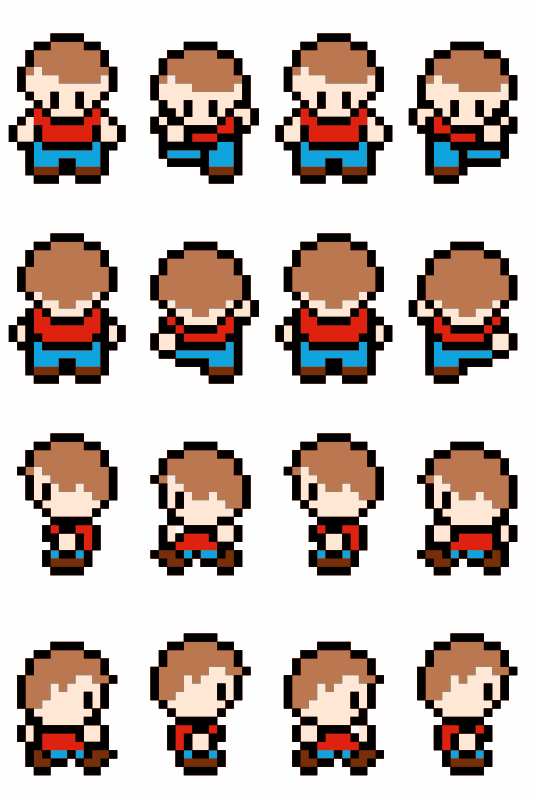
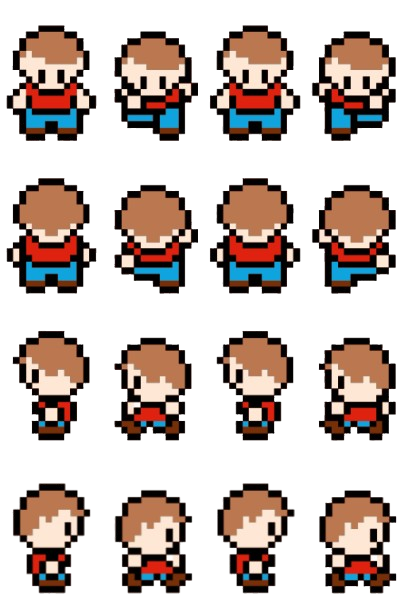
replace player image

diff --git a/games/3011-rpg-integrated/game/player.js b/games/3011-rpg-integrated/game/player.js
@@ -79,32 +79,35 @@ function handleMovement({ player, keys }) {
 }
 
 function handleAction({ keys, currentAction }) {
-  if (keys["z"] || keys["Z"]) {
-    currentAction = ACTIONS.ATTACKING;
-  } else if (keys["ArrowUp"] || keys["ArrowDown"] || keys["ArrowLeft"] || keys["ArrowRight"]) {
+  if (keys["ArrowUp"] || keys["ArrowDown"] || keys["ArrowLeft"] || keys["ArrowRight"]) {
+    console.log("Walking action detected");
     currentAction = ACTIONS.WALKING;
   } else {
+    console.log("Idle action detected");
     currentAction = ACTIONS.IDLE;
   }
 }
 
 function handleAnimation({ gameState }) {
   const WALK_FRAMES = FRAME_SETTINGS.WALK_FRAMES;
-  const ATTACK_FRAMES = FRAME_SETTINGS.ATTACK_FRAMES;
   let { currentAction, animationTimer, animationSpeed, currentFrame } = gameState;
 
-  if (currentAction === ACTIONS.WALKING || currentAction === ACTIONS.ATTACKING) {
+  if (currentAction === ACTIONS.WALKING) {
     animationTimer++;
     if (animationTimer >= animationSpeed) {
-      animationTimer = 0;
-      currentFrame++;
-      if ((currentAction === ACTIONS.WALKING && currentFrame >= WALK_FRAMES) || (currentAction === ACTIONS.ATTACKING && currentFrame >= ATTACK_FRAMES)) {
-        currentFrame = 0;
-      }
+      animationTimer = 0; // Reset timer
+      currentFrame = (currentFrame + 1) % WALK_FRAMES; // Loop through frames
+      console.log(`Walking Frame: ${currentFrame}`); // Debug frame updates
     }
   } else {
-    currentFrame = 0;
+    animationTimer = 0;
+    currentFrame = 0; // Default to idle frame when not walking
+    console.log("Idle Frame");
   }
+
+  // Update gameState
+  gameState.animationTimer = animationTimer;
+  gameState.currentFrame = currentFrame;
 }
 
 function handleCollision({ player, keys, mriMachine, currentState }) {

diff --git a/games/3011-rpg-integrated/game/draw/overworld.js b/games/3011-rpg-integrated/game/draw/overworld.js
@@ -27,11 +27,13 @@ export function drawWorld({ canvas, ctx }) {
 export function drawPlayer(canvas, ctx, player, currentFrame) {
   const { FRAME_WIDTH, FRAME_HEIGHT } = FRAME_SETTINGS;
   const spriteRow = DIRECTIONS[player.direction];
-  const sourceX = currentFrame * FRAME_WIDTH;
+  const sourceX = (currentFrame % 4) * FRAME_WIDTH; // Use frame within the row
   const sourceY = spriteRow * FRAME_HEIGHT;
 
   const scaleX = canvas.width / 640;
   const scaleY = canvas.height / 360;
+
+  console.log(`Drawing Frame: ${currentFrame}, sourceX: ${sourceX}, sourceY: ${sourceY}`); // Debug
 
   const scaledX = player.x * scaleX;
   const scaledY = player.y * scaleY;

diff --git a/games/3011-rpg-integrated/config/constants.js b/games/3011-rpg-integrated/config/constants.js
@@ -20,8 +20,8 @@ export const DIRECTION = {
 };
 
 export const FRAME_SETTINGS = {
-  FRAME_WIDTH: 133.5,
-  FRAME_HEIGHT: 200,
+  FRAME_WIDTH: 102,
+  FRAME_HEIGHT: 152.75,
   WALK_FRAMES: 4,
-  ATTACK_FRAMES: 4,
+  ATTACK_FRAMES: 1,
 };
